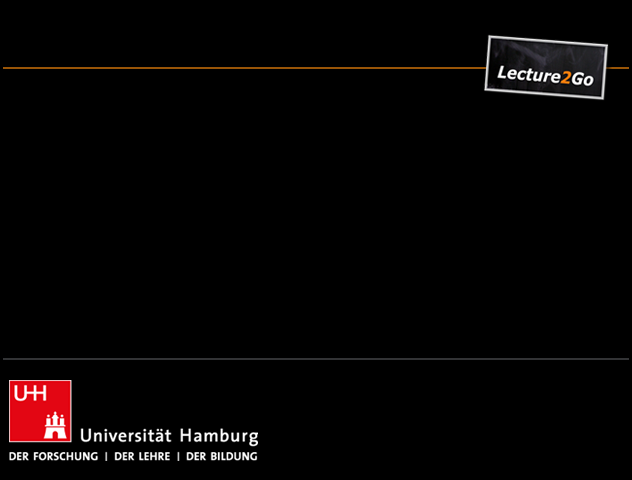
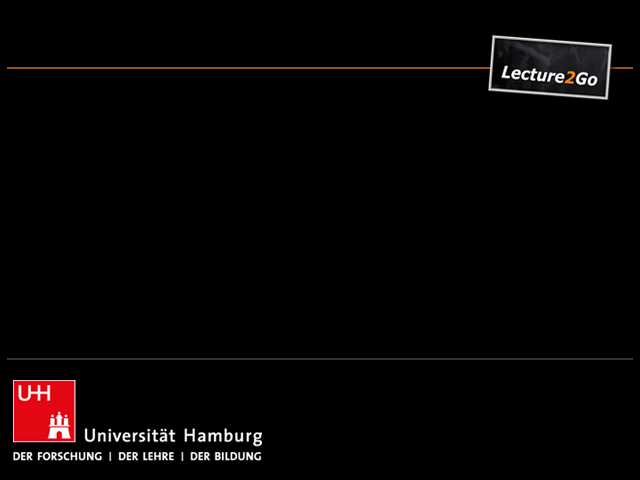
Set correct image width for speaker/slides
The (very) old pearl configuration used only percentages for the video
layout and the image needed to have an odd width to not be scaled. This
is not the case anymore, so the width is corrected to the right width
(640 pixels)

Changed region(s): [[0.0, 0.7812, 0.4209, 0.9688], [0.7516, 0.0625, 0.962, 0.2188], [0.8117, 0.0625, 0.932, 0.0938]]

diff --git a/imagebuilder/src/main/java/de/uhh/l2g/util/SpeakerSlidesL2goImageBuilder.java b/imagebuilder/src/main/java/de/uhh/l2g/util/SpeakerSlidesL2goImageBuilder.java
@@ -20,7 +20,7 @@ public class SpeakerSlidesL2goImageBuilder extends L2goImageBuilder {
 		super(author, institution, title, series, date);
 	
 		// the image width (in pixels) is used to determine the maximum text length per line
-		this.imageWidth  = 632;
+		this.imageWidth  = 640;
 		
 		// the distance from the image-border to the start of text in pixels
 		this.offsetLeft = 10;
